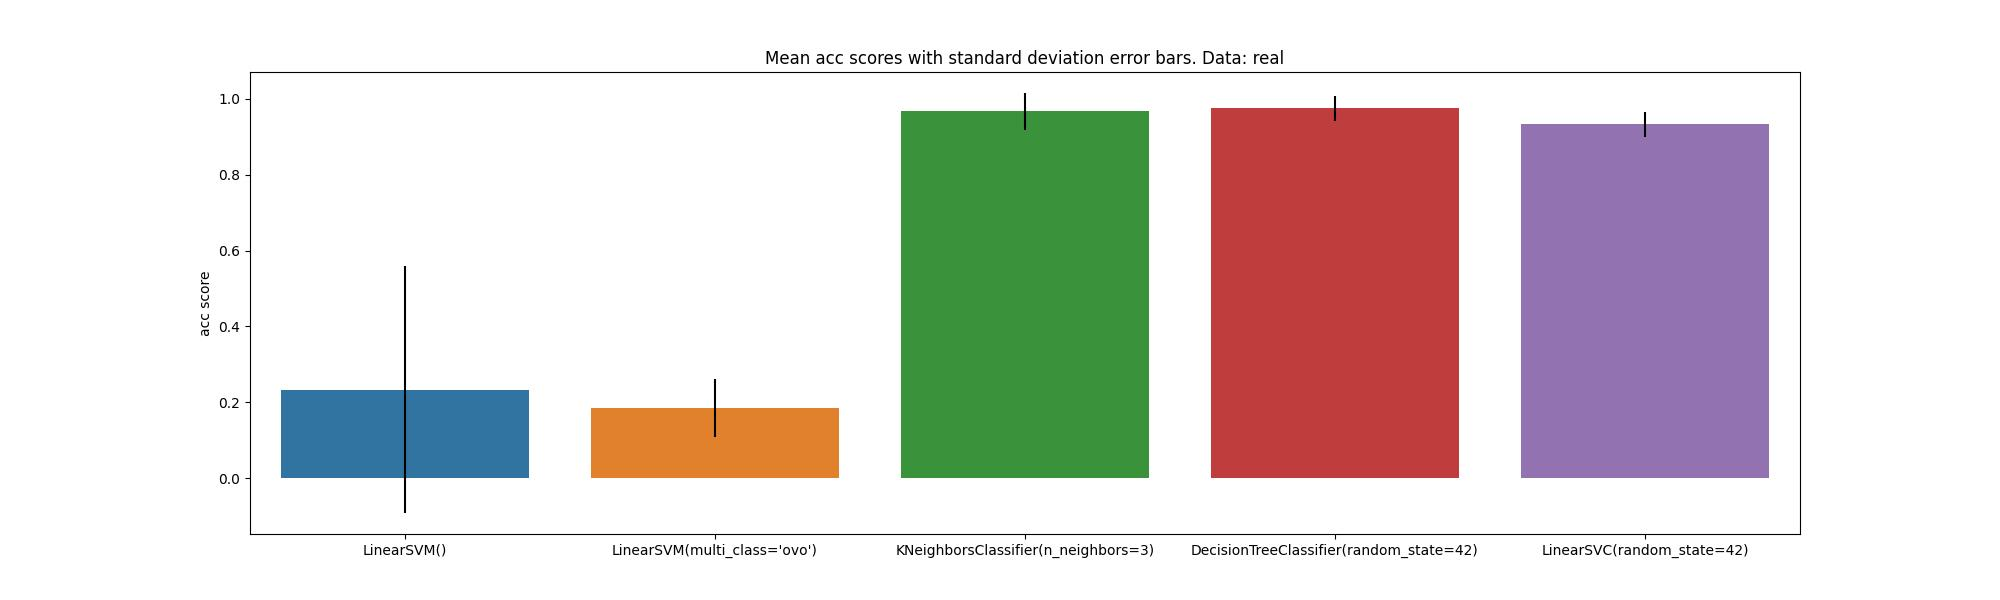
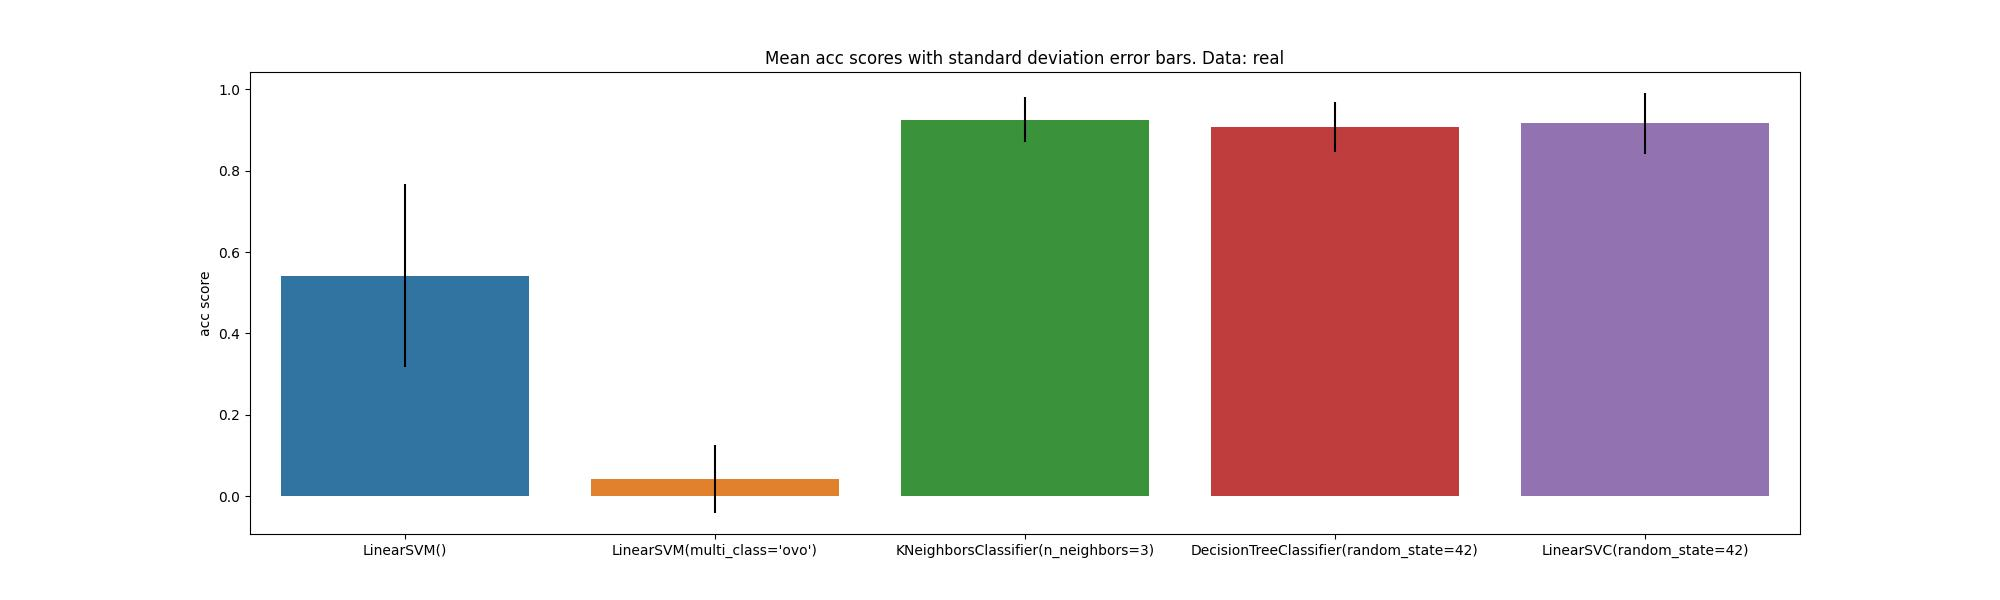
skrocenie nazw w tabelach

diff --git a/LinearSVM.py b/LinearSVM.py
@@ -90,7 +90,7 @@ scaler = StandardScaler()
 X_train = scaler.fit_transform(X_train)
 X_test = scaler.transform(X_test)
 
-real_data = np.loadtxt('irys.csv', delimiter=',')#, skiprows=1)
+real_data = np.loadtxt('irys.csv', delimiter=',')
 real_X = real_data[:, :-1]
 real_y = real_data[:, -1]
 
@@ -176,8 +176,8 @@ classifiers = [clf, clf1, knn, dt, sklearn_svm]
 table_data = []
 for classifier in classifiers: 
     print(f'{classifier}')
-    result = metrics(X_train, y_train, classifier, 'synt')
-    # result = metrics(X_real_train, y_real_train, classifier, 'real')
+    # result = metrics(X_train, y_train, classifier, 'synt')
+    result = metrics(X_real_train, y_real_train, classifier, 'real')
     table_data.append((
         result['description'],
         f"{np.mean(result['accuracy']):.4f} +- {result['accuracy_std']:.4f}",
@@ -209,20 +209,42 @@ for type in result_type:
             results[(classifier, metric)] = load_results(f'{type}_results', f'{type}_{classifier}_{metric}.npy')
 
     # Test T-Studenta dla każdej pary klasyfikatorów
+    short_names = {
+        clf: 'LSVM (OvA)',
+        clf1: 'LSVM (OvO)',
+        knn: 'kNN',
+        dt: 'DT',
+        sklearn_svm: 'SVM (OvA)',
+    }
+
     table_data = []
     table_headers = ['Classifiers'] + [metric for metric in metrics]
 
     for i in range(len(classifiers)):
         for j in range(i+1, len(classifiers)):
-            table_row = [f'{classifiers[i].__class__.__name__} vs {classifiers[j].__class__.__name__}']
+            classifier1 = short_names[classifiers[i]]
+            classifier2 = short_names[classifiers[j]]
+            table_row = [f'{classifier1} vs {classifier2}']
             for metric in metrics:
                 t_statistic, p_value = ttest_ind(results[(classifiers[i], metric)], results[(classifiers[j], metric)])
                 table_row.append(f"{t_statistic:.4f} +- {p_value:.4f}")
             table_data.append(table_row)
 
-    table = tabulate(table_data, headers=table_headers, tablefmt='latex')
+    print(tabulate(table_data, headers=table_headers, tablefmt='latex'))
 
-    print(table)
+
+    # table_data = []
+    # table_headers = ['Classifiers'] + [metric for metric in metrics]
+
+    # for i in range(len(classifiers)):
+    #     for j in range(i+1, len(classifiers)):
+    #         table_row = [f'{classifiers[i].__class__.__name__} vs {classifiers[j].__class__.__name__}']
+    #         for metric in metrics:
+    #             t_statistic, p_value = ttest_ind(results[(classifiers[i], metric)], results[(classifiers[j], metric)])
+    #             table_row.append(f"{t_statistic:.4f} +- {p_value:.4f}")
+    #         table_data.append(table_row)
+
+    # print(tabulate(table_data, headers=table_headers, tablefmt='latex'))
 
 #     # Wykresy słupkowe dla każdej metryki
     for metric in metrics:
